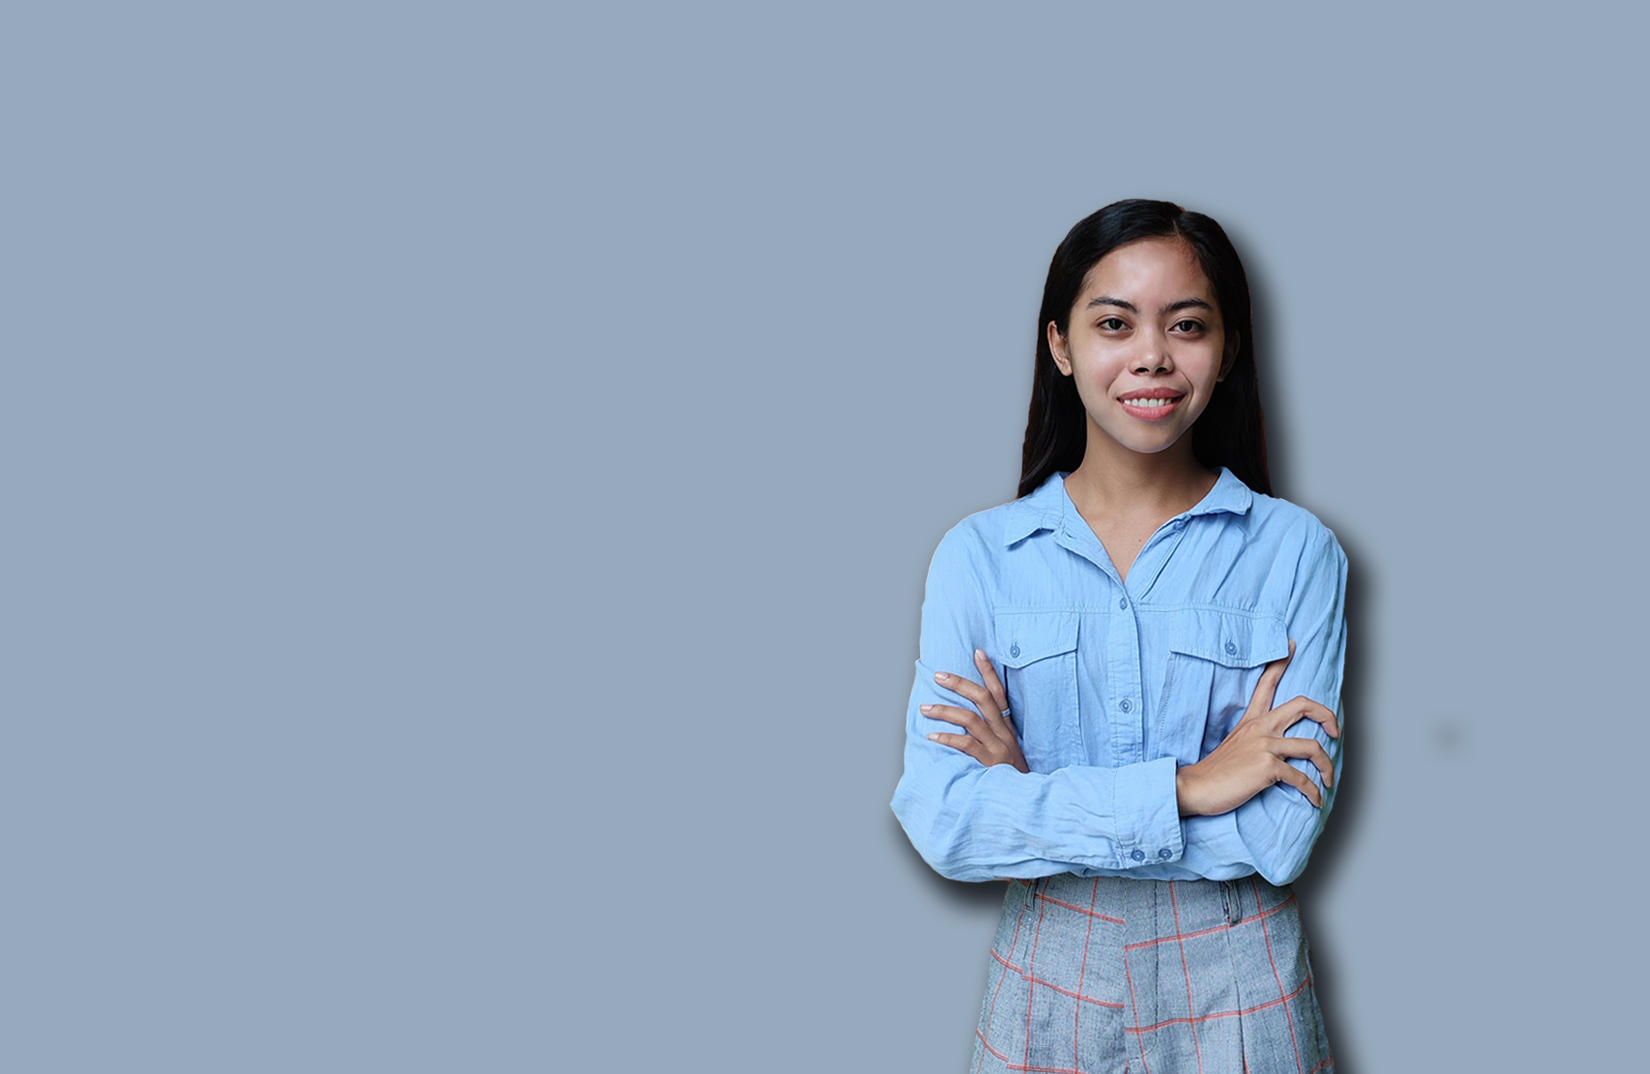
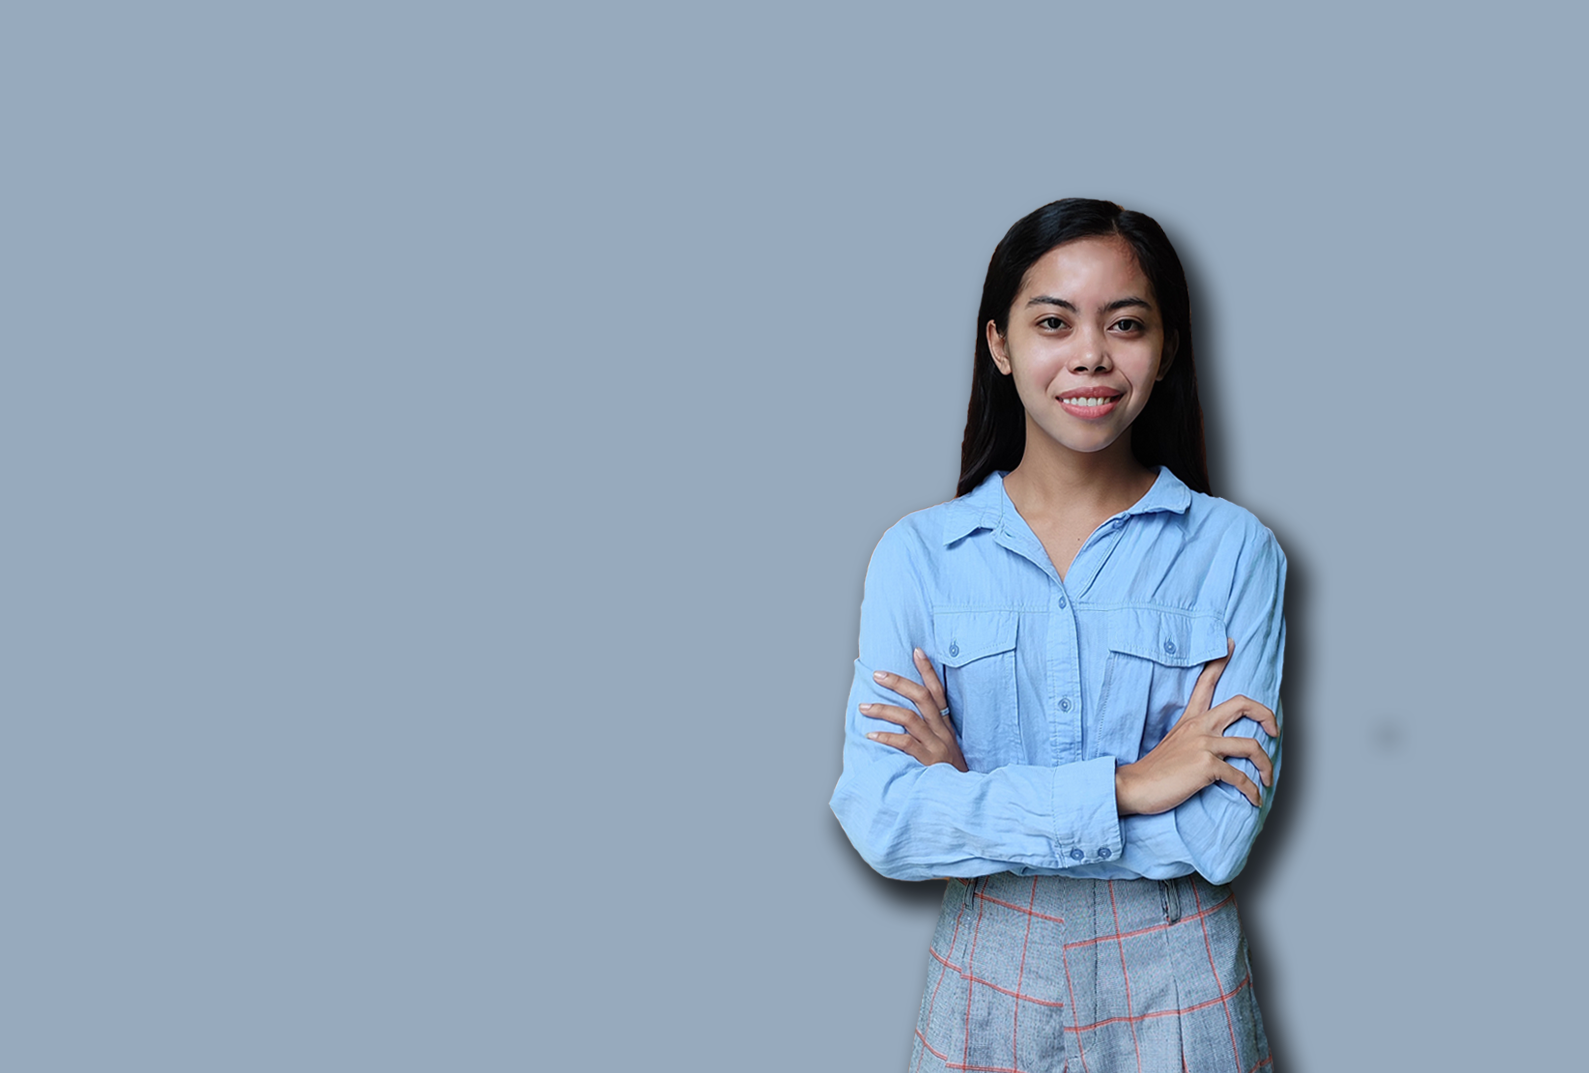
responsiveness

Changed region(s): [[0.5242, 0.1845, 0.8326, 1.0]]

diff --git a/style.css b/style.css
@@ -23,10 +23,10 @@ html{
     width: 100%; 
     padding: 15px 0;
     font-family: 'Ubuntu', sans-serif;
-    margin: 15px;
     margin-bottom: 4px;
     padding: 0;
     transition: all 0.3 ease;
+    background-color: #97aabd;
 }
 
 .navbar .menu li a{
@@ -519,7 +519,12 @@ footer span a{
 @media (max-width: 1104px) {
     .about .about-content .left img{
         height: 350px;
-        width: 350px;
+        width: 250px;
+        margin-left: 30px;
+    }
+    .about .about-content .right .text{
+        font-size: 20px;
+        font-weight: 600;
     }
 }
 @media (max-width: 991px){
@@ -571,6 +576,8 @@ footer span a{
     .about .about-content .column{
         width: 100%;
     }
+
+    
     .about .about-content .left{
         display: flex;
         justify-content: center;
@@ -590,6 +597,15 @@ footer span a{
 @media (max-width:690px){
     .max-width{
         padding: 0 23px;
+    }
+    .about .about-content .left img{
+        height: 350px;
+        width: 150px;
+        object-fit: cover;
+        border-radius: 6px;
+        border: 2px solid black;
+        margin-top: 20px;
+        margin-left: 90px;
     }
     .home .home-content .text-2{
         font-size: 60px;
@@ -693,6 +709,7 @@ footer span a{
 
     .about .about-content .left img{
         margin-left: 10px;
+        width: 250px;
     }
 
     .about .title{

diff --git a/index.html b/index.html
@@ -35,7 +35,7 @@
             <div class="home-content">
                 <div class="text-1">Hello, my name is</div>
                 <div class="text-2">Jessel Marie</div>
-                <div class="text-3">and I'm a <span class="typing"></span></div>
+                <div class="text-3">and I am a <span class="typing"></span></div>
                 <a href="#contact">Hire me</a>
             </div>
         </div>
@@ -50,7 +50,7 @@
                     <img src="images/about.png" alt="">
                 </div>
                 <div class="column right">
-                    <div class="text">I'm Jessel Marie Pelarca and I'm a <span class="typing-2"></span></div>
+                    <div class="text">I'm Jessel Marie Pelarca and I am a<span class="typing-2"></span></div>
                     <p>21 years old from Kadingilan Bukidnon and the youngest among four siblings.
                         Undergraduate of Bachelor of Science in Information Technology at Bukidnon State University.
                         <br> I am a hospitable and friendly person, capable and alert that is always ready and prepared 
